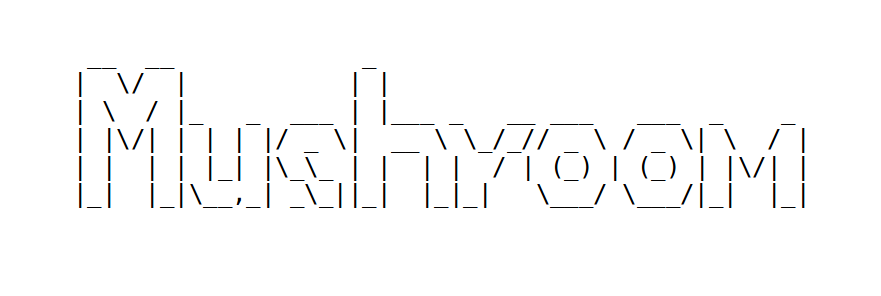
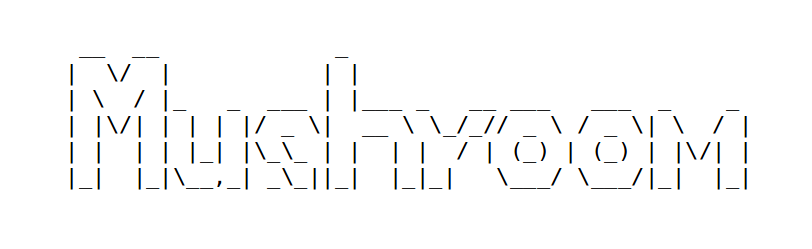
Mushroom

Changed region(s): [[0.0616, 0.2249, 0.9236, 0.759]]

diff --git a/README.md b/README.md
@@ -1,5 +1,5 @@
 <div align="center">
-  <img src="./mushroom.png"><br><br>
+  <img src="./mushroom.png" style="width: 100%; height: 100%"><br>
 </div>
 
 ## Mushroom（蘑菇）：并发B<sup>link</sup>树索引

diff --git a/README.en.md b/README.en.md
@@ -1,5 +1,5 @@
 <div align="center">
-  <img src="./mushroom.png"><br><br>
+  <img src="./mushroom.png" style="width: 100%; height: 100%"><br>
 </div>
 
 ## Mushroom: Concurrent B<sup>link</sup> Tree Index
